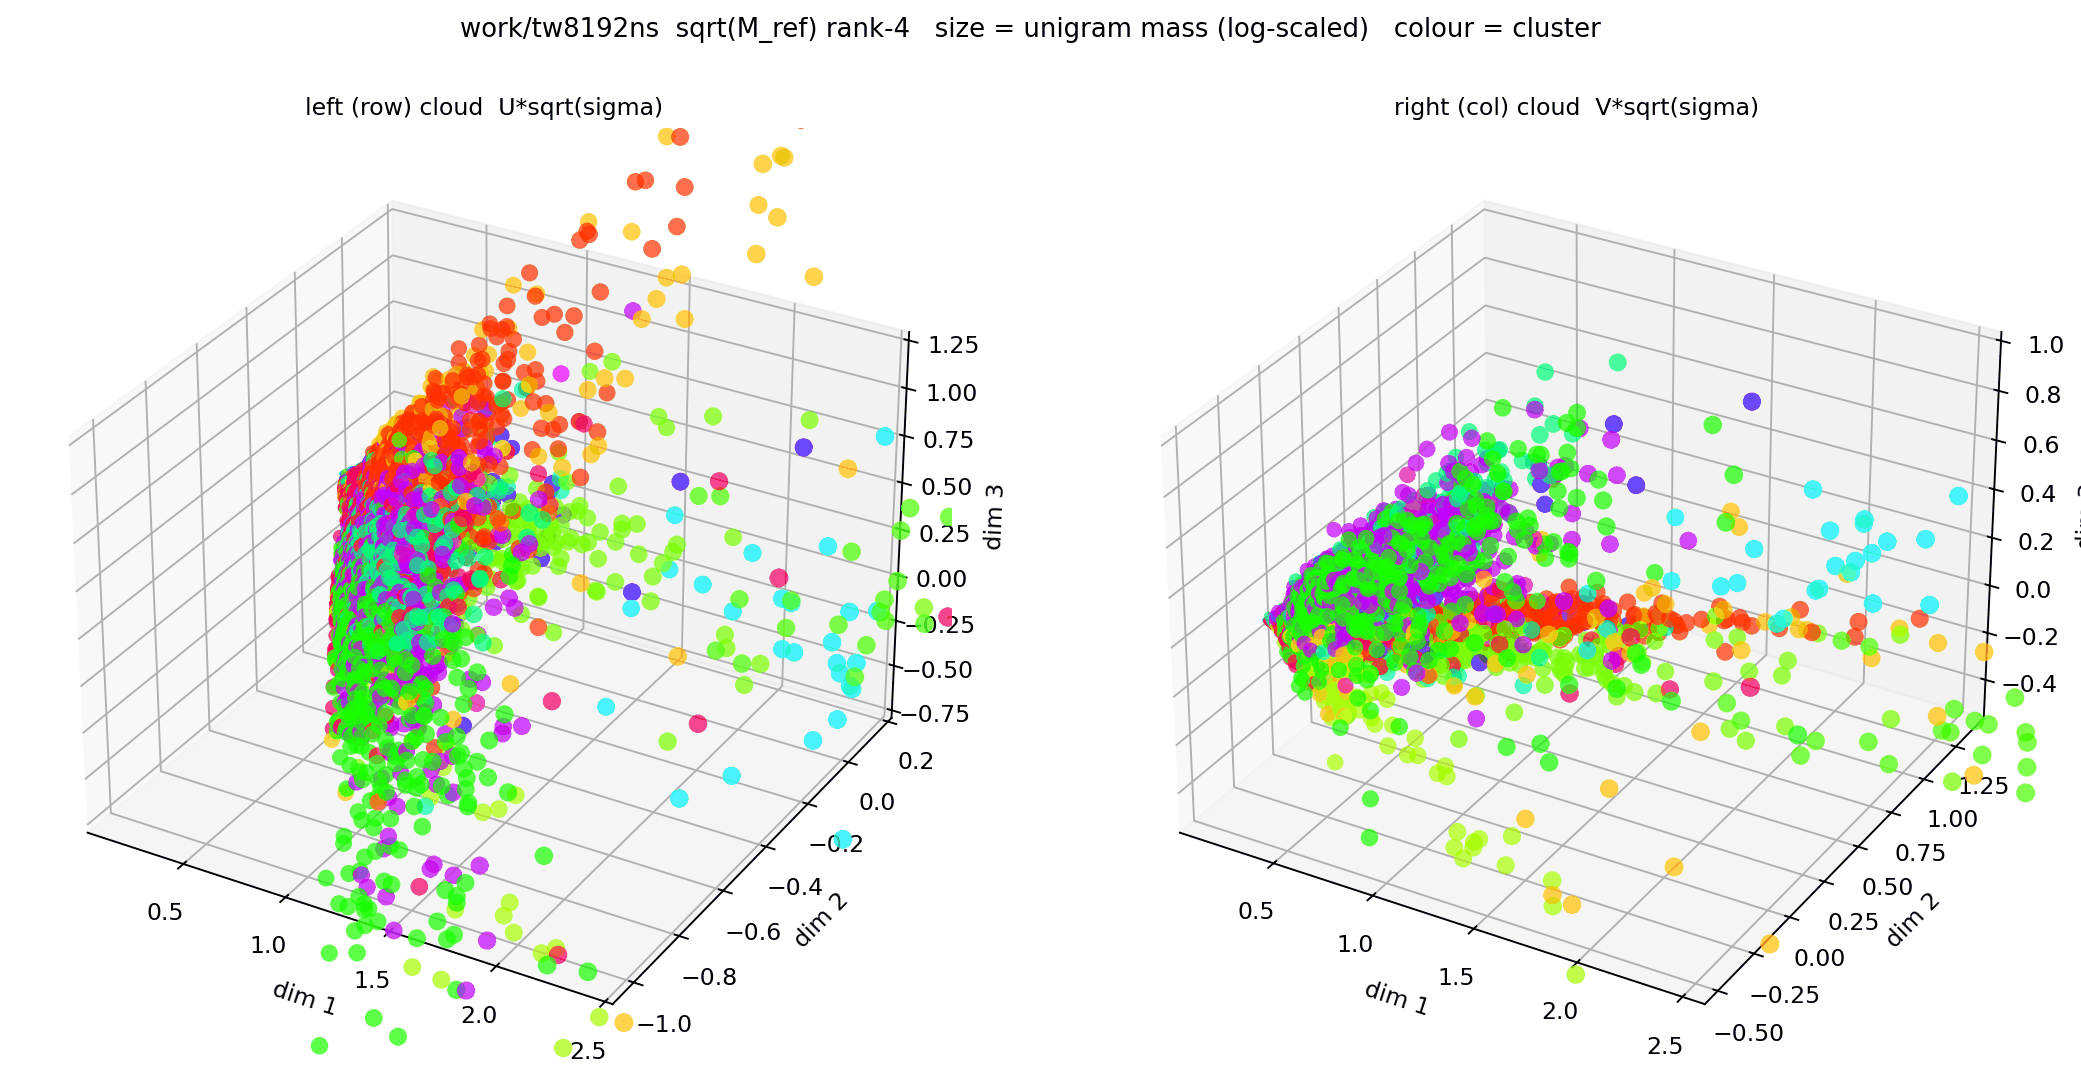
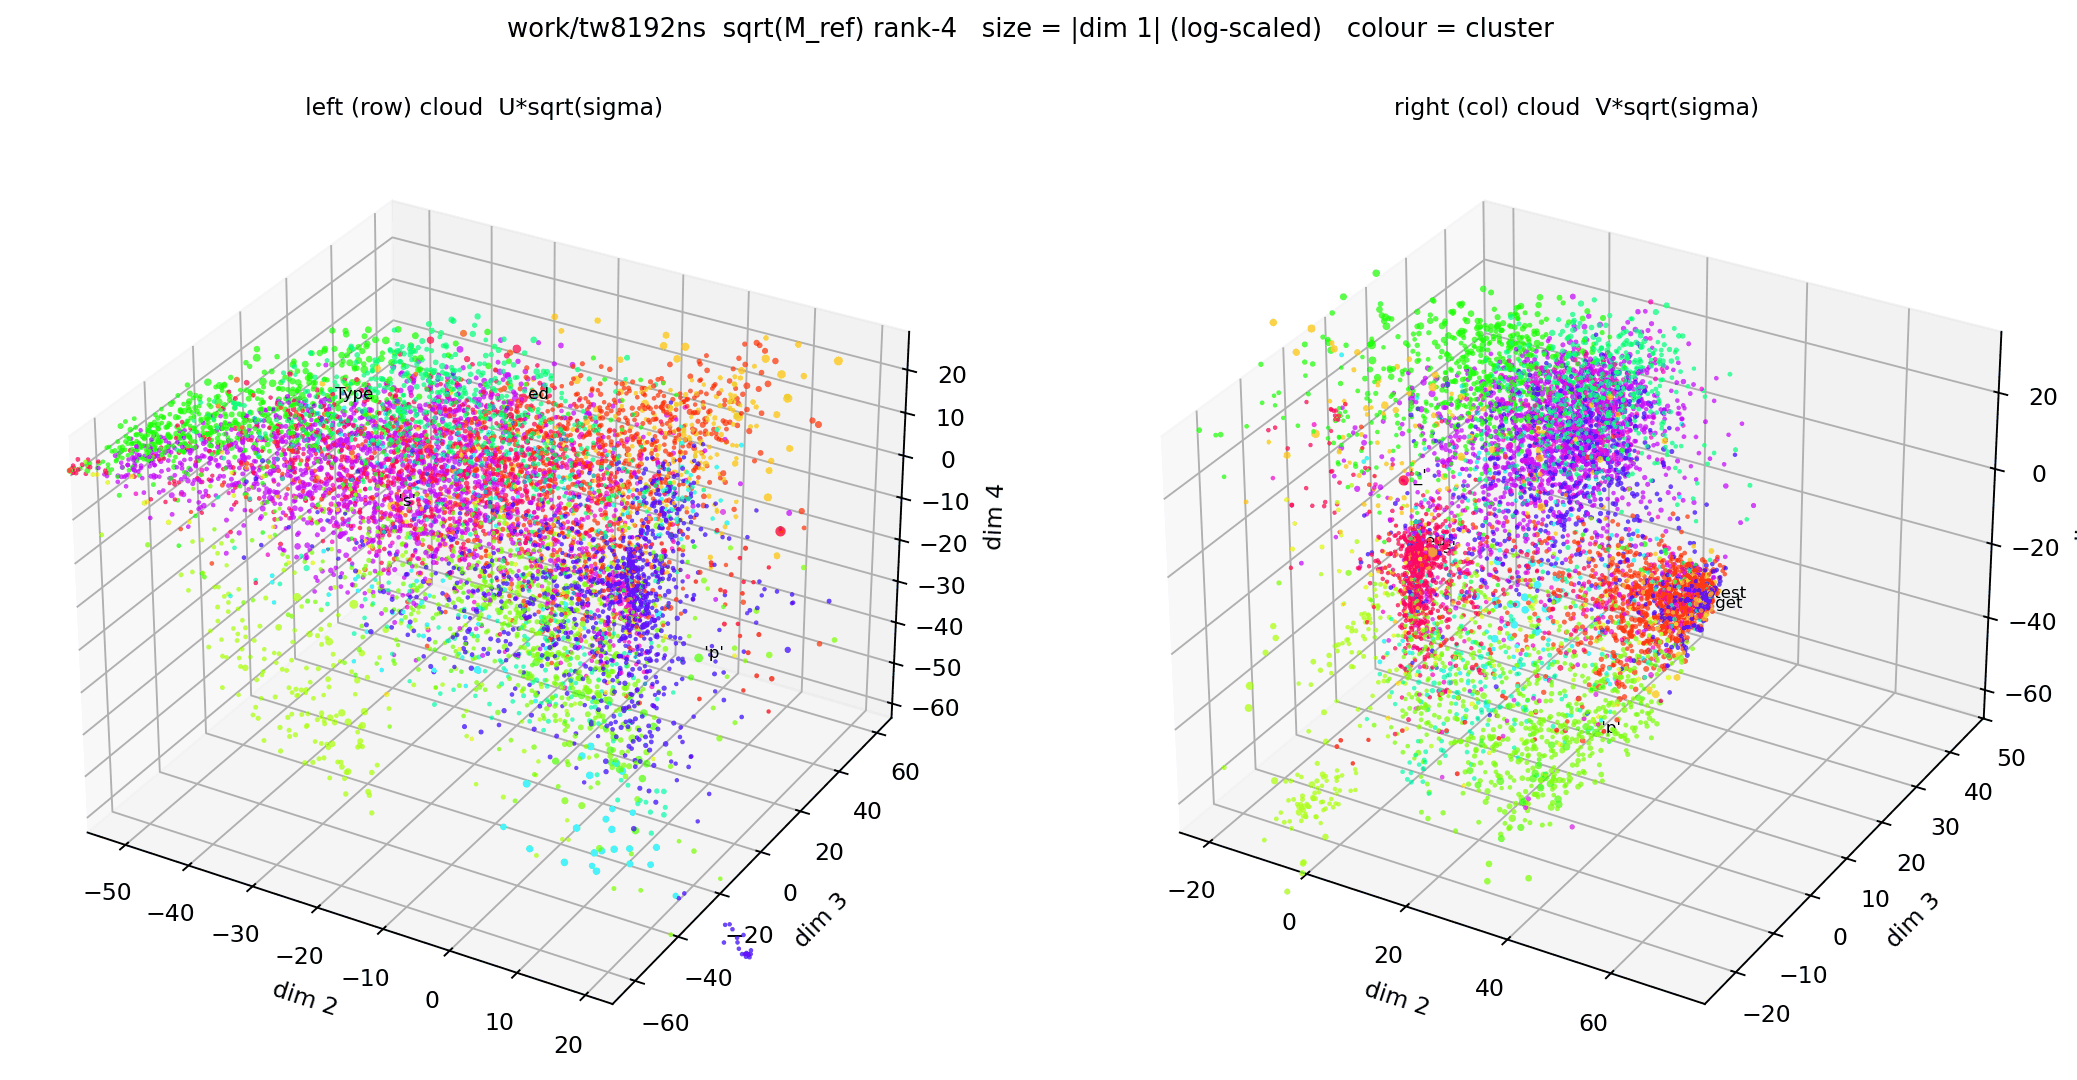
readme: draw the clouds with the mass trend divided out
Your call was right: on the default axes the clouds are one dense blob until
each coordinate is divided by sqrt(p) of the word, and the divided version shows
the clusters as regions instead.  The caption now says what the projection is
and what to look for.

Also re-measured the SVD after the OpenBLAS fix: the dense path is 5 minutes at
V=8,192 here (40 against a reference BLAS), the Lanczos path 40 seconds, and the
two agree to 1e-13 after the sign fix, which now applies to both routes so
--exact and the default no longer differ by a mirror.

diff --git a/scripts/factor_cloud.py b/scripts/factor_cloud.py
@@ -34,13 +34,14 @@ remaining (angular) structure is visible.
 It is self-contained: it needs `numpy`, `matplotlib`, and only the files
 `<dir>/adj.npz` and `<dir>/sym.npy` (e.g. copy `work/tw2040/`; ~3.4 MB).
 `scipy` is optional and is used above `V = 3,000`: the dense SVD is cubic, so
-the shipped vocabulary takes it from ~40 minutes to under a minute (`--exact`
-forces the dense path anyway).
+at the shipped vocabulary it takes 5 minutes here (40 against a reference BLAS)
+where the Lanczos route takes 40 seconds, and the two agree (`--exact` forces
+the dense path anyway).
 
 Usage:
     factor_cloud.py --dir work/tw8192ns --model standard/model.nvm1 --no-show
     factor_cloud.py --dir work/tw8192ns --model standard/model.nvm1 \
-        --axes 1,2,3 --size mass --label 8 --no-cluster-labels --no-show
+        --divide-unigram --label 8 --no-cluster-labels --no-show   # the README plot
     factor_cloud.py --dir work/tw2040 --clusters 16 --no-show
     factor_cloud.py --dir work/tw2040                 # show and save PNG
     factor_cloud.py --dir work/tw2040 --size mass --save cloud.png
@@ -74,11 +75,17 @@ def factorise(M_ref, rank, exact=False):
     """Rank-`rank` SVD of the elementwise sqrt (Hellinger embedding).
 
     The dense SVD is O(V^3) and dominates the run at the shipped vocabulary:
-    on a machine with a reference BLAS it is ~40 minutes at `V = 8,192`, for
-    four singular vectors.  So the default above `--exact-v` is the Lanczos
-    (`svds`) route, which needs only a few dozen matrix-vector products, and
-    the signs are fixed so the coordinates are reproducible.  `exact=True`
-    forces the dense path, which is what the small vocabularies use anyway.
+    measured at `V = 8,192` it is 5 minutes here with a threaded OpenBLAS (and
+    40 minutes against a reference one) for four singular vectors.  So the
+    default above `V = 3,000` is the Lanczos (`svds`) route, which needs only a
+    few dozen matrix-vector products and takes ~40 seconds; the two agree — the
+    leading singular values and, after the sign fix below, every coordinate to
+    the precision written out.  `exact=True` forces the dense path, which is
+    what the small vocabularies use anyway.
+
+    Whichever route is taken, each vector is signed so that its largest-magnitude
+    entry is positive: LAPACK's signs are arbitrary, and without this two runs
+    differ by a mirror.
     """
     A = np.sqrt(np.maximum(M_ref, 0.0))
     V = A.shape[0]
@@ -87,14 +94,14 @@ def factorise(M_ref, rank, exact=False):
         U, s, Vt = svds(A, k=rank)             # ascending
         order = np.argsort(s)[::-1]
         U, s, Vt = U[:, order], s[order], Vt[order]
-        for j in range(len(s)):                # fix the sign of each vector
-            if U[np.argmax(np.abs(U[:, j])), j] < 0:
-                U[:, j] *= -1
-                Vt[j] *= -1
     else:
         U, s, Vt = np.linalg.svd(A, full_matrices=False)
         L = min(rank, len(s))
         U, s, Vt = U[:, :L], s[:L], Vt[:L]
+    for j in range(len(s)):                    # fix the sign of each vector
+        if U[np.argmax(np.abs(U[:, j])), j] < 0:
+            U[:, j] *= -1
+            Vt[j] *= -1
     left = U * np.sqrt(s)          # V x L
     right = Vt.T * np.sqrt(s)      # V x L
     return left, right, s

diff --git a/README.md b/README.md
@@ -153,17 +153,21 @@ few hundred clusters come within a fraction of a bit of its exact-context bound
 The figure is the word table seen as two clouds. It is the rank-4 square-root
 factorisation of the table
 ([`docs/HELLINGER_FACTORISATION.md`](docs/HELLINGER_FACTORISATION.md)), so every
-word has a *row* coordinate (left panel) and a *column* coordinate
-(right panel); a point's size is the word's unigram mass and its colour is the
-**right cluster** the shipped model assigns it to, which is also its left
-cluster because the assignment is shared. Words that the model groups together
-sit in the same neighbourhood of *both* clouds — the red-and-orange arm, the
-green bulk, the cyan spur — which is what a single assignment has to buy: one
-table of relationships, used from both sides. The tool that draws it is
-`scripts/factor_cloud.py --dir work/tw8192ns --model standard/model.nvm1
---axes 1,2,3 --size mass --no-cluster-labels`; a fresh clustering can be
-computed on the spot with `--clusters K`, and the CSV it writes carries the
-cluster so the plot can be redrawn elsewhere.
+word has a *row* coordinate (left panel) and a *column* coordinate (right
+panel). Each panel plots latent dimensions 2–4, divided by the square root of
+the word's unigram probability, which removes the mass trend and leaves the
+angular structure the clustering works on; a point's size is `|dim 1|` and its
+colour is the **right cluster** the shipped model assigns it to, which is also
+its left cluster because the assignment is shared.
+
+What to look for is that one assignment produces *regions* rather than confetti
+in both panels — green upper left, the magenta-and-red band, orange at the right
+edge of the left cloud; red in a lobe of its own, purple and cyan above, green
+below in the right one. A single table of relationships, read from both sides,
+is what buys that. The tool is `scripts/factor_cloud.py --dir work/tw8192ns
+--model standard/model.nvm1 --divide-unigram --no-cluster-labels`; a fresh
+clustering can be computed on the spot with `--clusters K`, and the CSV it
+writes carries the cluster so the plot can be redrawn elsewhere.
 
 Along the way, we tried a lot of things that didn't work:
 

diff --git a/PLAN.md b/PLAN.md
@@ -112,9 +112,9 @@ filenames refer to experiments by name, never by these labels (see `README.md`).
       `docs/CLUSTER_WORDS.md`, `docs/HELLINGER_FACTORISATION.md`.
 - [x] **C31. A factor-cloud figure for `README.md`.** *Done —*
       `docs/factor-cloud.png`: the rank-4 clouds of the shipped model coloured
-      by right cluster.  Dims 1–3 and size by mass, not the default dims 2–4:
-      the mass axis is what separates the arms, and the default projection buries
-      the structure in a dense core.  `README.md`.
+      by right cluster, on the default axes with `--divide-unigram` (dividing each
+      coordinate by `sqrt(p)` strips the mass trend, without which the clouds are
+      one dense blob).  `README.md`.
 - [x] **C32. Naming right clusters by position.** *Rejected.*
       `docs/CLUSTER_QUARTERS.md` §"The structural cost".
 
